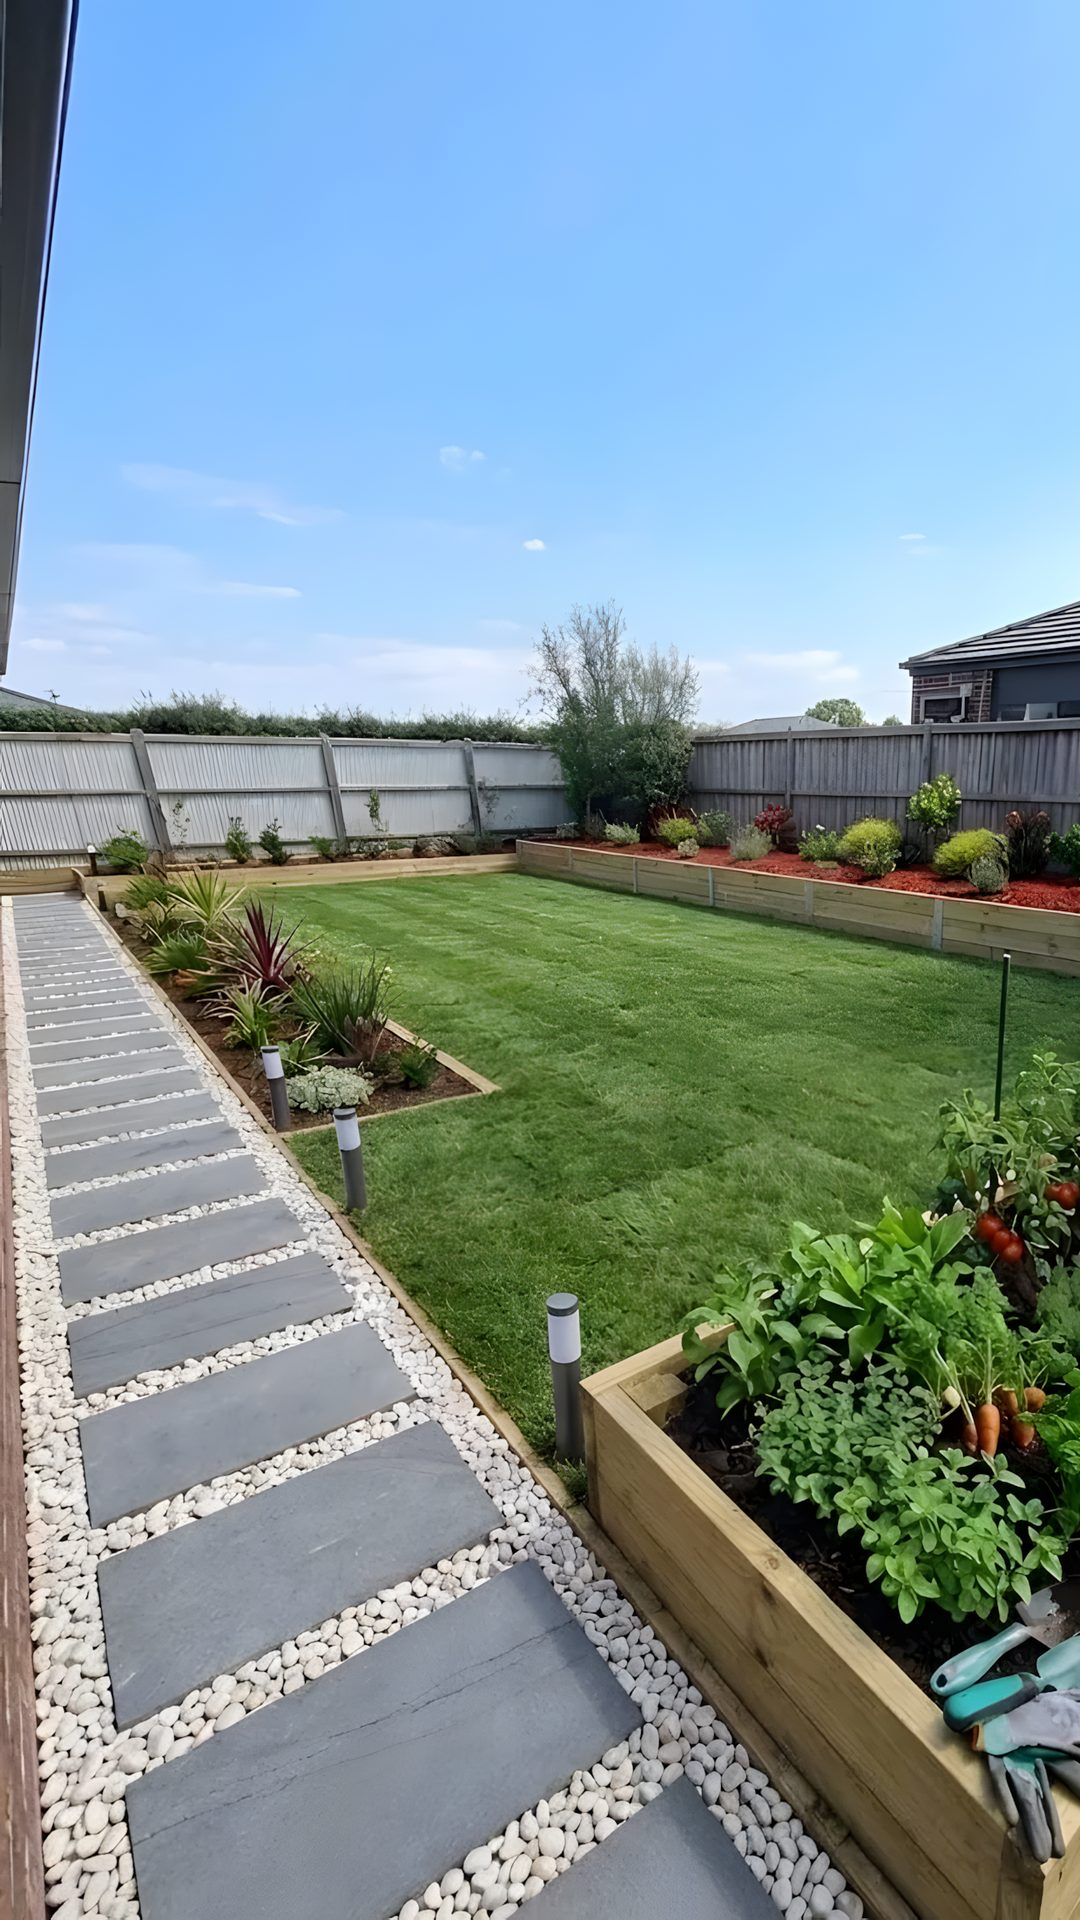
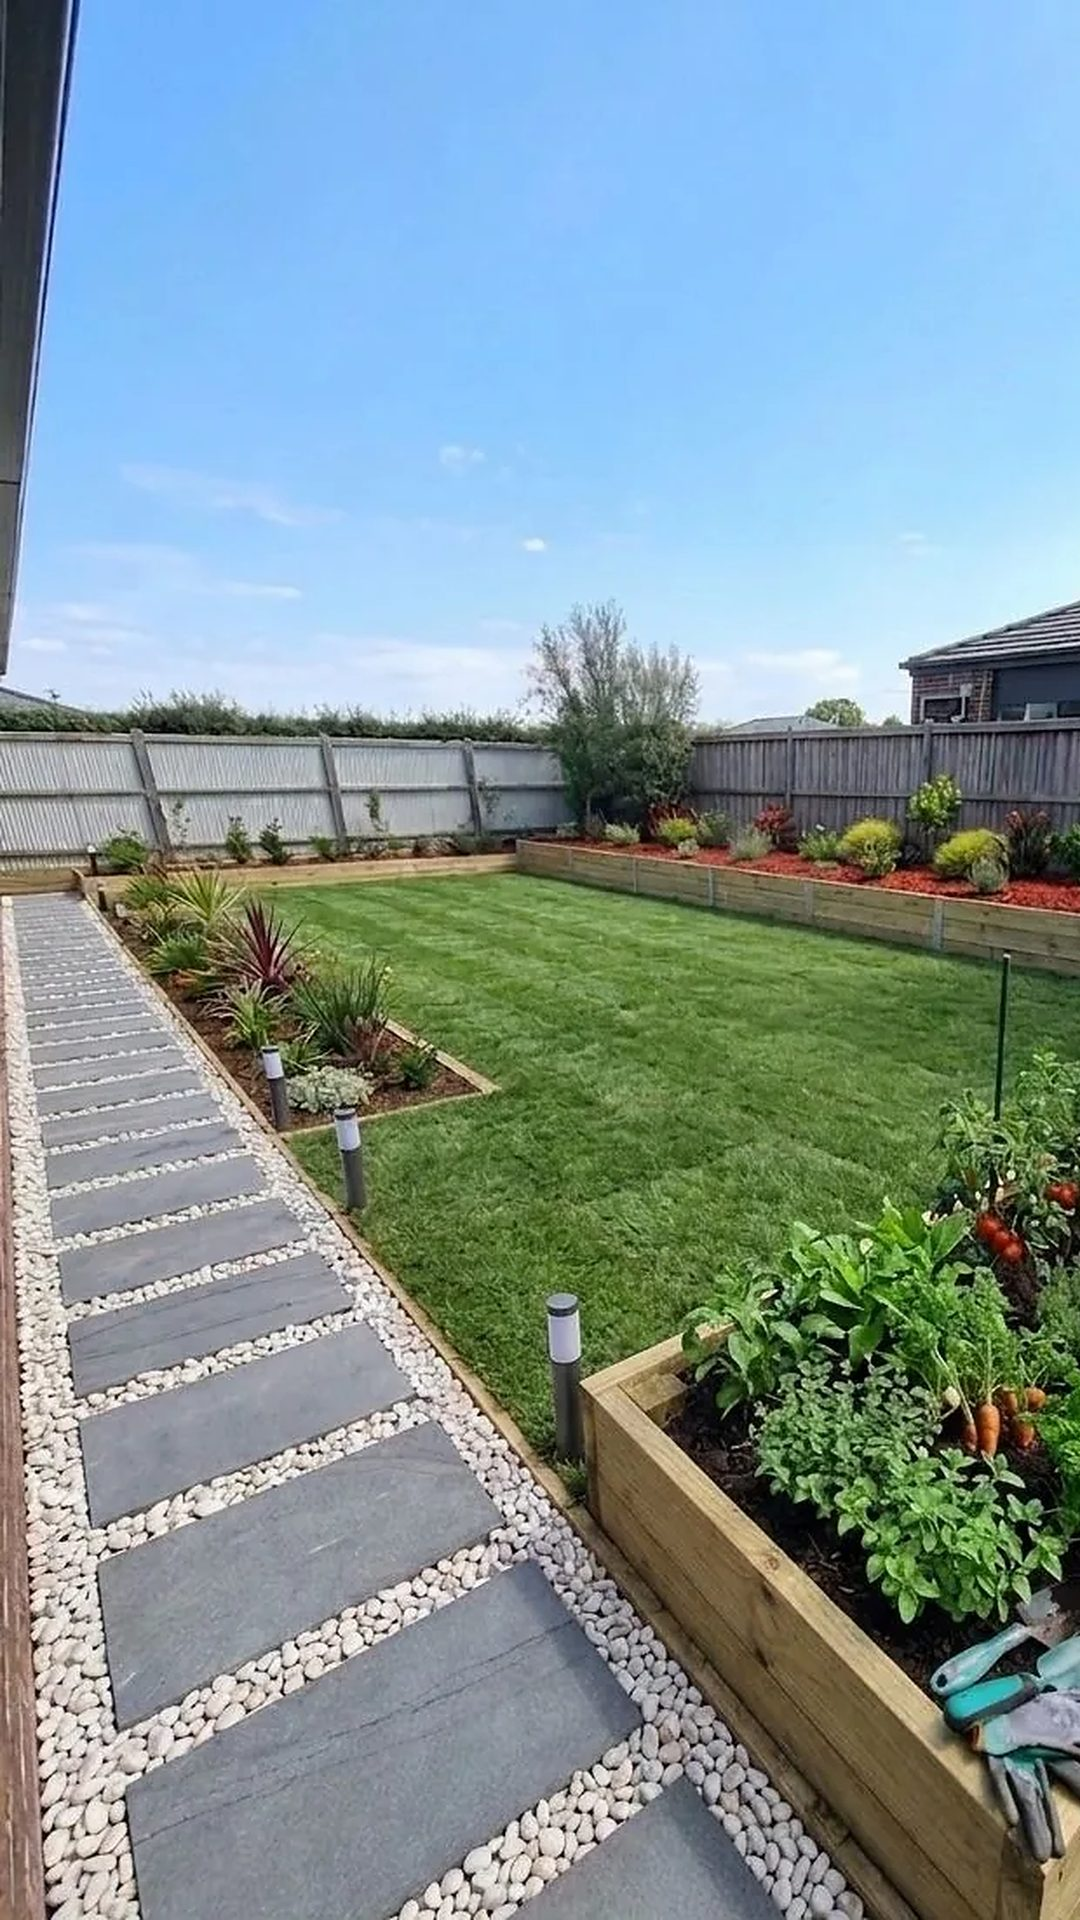
Homepage heroes: plain 2x resize replaces the GAN upscale (grass looked synthetic)
Real-ESRGAN x4plus hallucinated uniform needle-fine blades across the
lawn, so the turf read as rendered. Both heroes are regenerated from the
same sources with a Lanczos 2x resize plus light unsharp masking: desktop
from the client's frontyard hero.webp (same middle band, 1756x988), phones
from retaining web/image 4 (same 9:16 left cut, 1080x1920). Filenames,
dimensions and markup unchanged; comments updated.

diff --git a/index.html b/index.html
@@ -270,12 +270,12 @@
     <!-- ============ HERO ============ -->
     <section class="hero" aria-label="Introduction">
       <div class="hero__media">
-        <!-- Desktop: the front-yard photo (assets/images/Synthetic turf and
-             plants.webp, 878x1078), upscaled 2x with Real-ESRGAN x4plus to
-             1756x2156, cropped to the middle band (street houses, picket
-             fence and roses, lawn, rose bed).
+        <!-- Desktop: the front-yard photo (assets/images/frontyard hero.webp,
+             878x1078), resized 2x with Lanczos plus light sharpening (no GAN
+             upscaler — Real-ESRGAN painted synthetic grass), cropped to the
+             middle band (street houses, picket fence and roses, lawn, rose bed).
              Phones: a different photo — the stepping-stone path (retaining web/
-             image 4.webp, 819x1102), upscaled the same way to 1638x2204 and cut
+             image 4.webp, 819x1102), resized the same way to 1638x2204 and cut
              9:16 down the left edge so the path leads to the raised veg bed.
              WebP first, JPG fallback for browsers without WebP. The alt is
              swapped to match on phones by the small script below. -->
